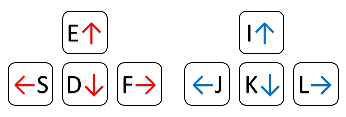
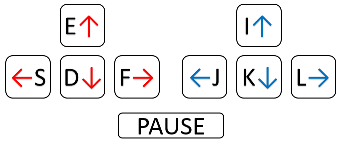
Add pause button to keymap.png

diff --git a/README.md b/README.md
@@ -7,3 +7,9 @@
 - 操作説明の括弧内を矢印に変更
 - 操作キーを画像で表示
 - 逆向き入力による即死を無効化
+
+## jag
+- 
+- 
+- 
+- 
